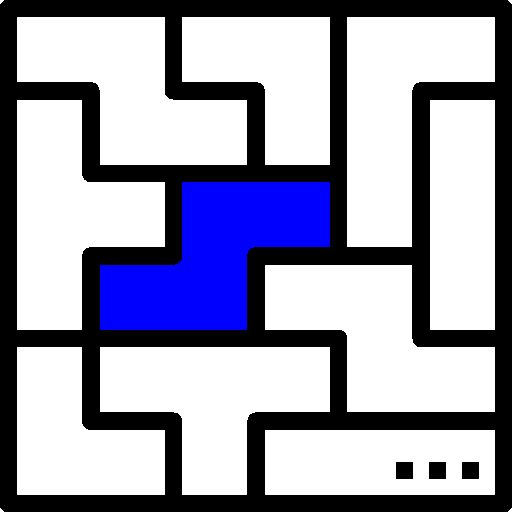
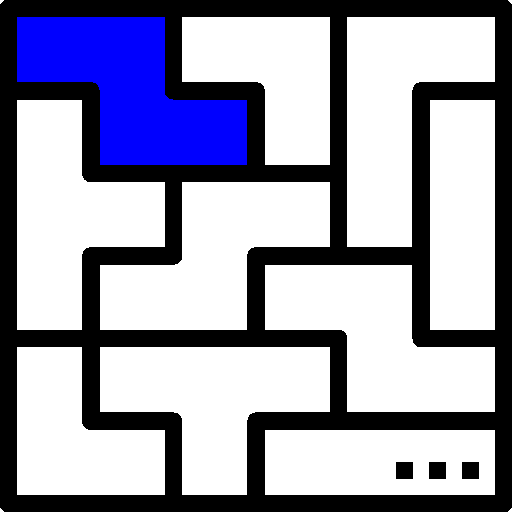
feat: implementa classe Main para execução

Changed region(s): [[0.0312, 0.0312, 0.6562, 0.6562]]

diff --git a/src/Main.java b/src/Main.java
@@ -1,0 +1,64 @@
+import algoritmo.FloodFill;
+import java.io.IOException; // Necessário para tratar erros de leitura de arquivo
+
+/**
+ * Classe principal que executa o programa Flood Fill de forma não-interativa.
+ * Em uma única execução, o programa irá gerar DOIS arquivos de saída:
+ * 1. O resultado do preenchimento com Pilha.
+ * 2. O resultado do preenchimento com Fila.
+ * As configurações são definidas diretamente no código.
+ */
+public class Main {
+    public static void main(String[] args) {
+
+        // ==========================================================
+        // CONFIGURAÇÕES DO ALGORITMO
+        // Altere os valores abaixo para testar diferentes casos
+        // ==========================================================
+
+        // 1. Especifique o caminho da imagem PNG.
+        String caminhoDaImagem = "src/img/maze.png";
+
+        // 2. Defina as coordenadas (X, Y) do ponto inicial para o preenchimento.
+        int pontoInicialX = 20;
+        int pontoInicialY = 20;
+
+        // 3. Escolha as cores de preenchimento para cada algoritmo.
+        // Use as constantes definidas em FloodFill.java.
+        int corParaPilhaRGB = FloodFill.COR_VERMELHA_RGB;
+        int corParaFilaRGB = FloodFill.COR_AZUL_RGB;
+
+        // ==========================================================
+
+        try {
+            System.out.println("============================================");
+            System.out.println("         ALGORITMO FLOOD FILL");
+            System.out.println("     Executando Pilha e Fila em sequência");
+            System.out.println("============================================");
+
+            // --- EXECUÇÃO COM PILHA ---
+            System.out.println("\n[1 de 2] Iniciando execução com PILHA...");
+            FloodFill floodFillPilha = new FloodFill(caminhoDaImagem);
+            floodFillPilha.executarComPilha(pontoInicialX, pontoInicialY, corParaPilhaRGB);
+            System.out.println("Execução com Pilha concluída.");
+
+            // --- EXECUÇÃO COM FILA ---
+            System.out.println("\n[2 de 2] Iniciando execução com FILA...");
+            FloodFill floodFillFila = new FloodFill(caminhoDaImagem);
+            floodFillFila.executarComFila(pontoInicialX, pontoInicialY, corParaFilaRGB);
+            System.out.println("Execução com Fila concluída.");
+
+            System.out.println("\n✔ Processamento finalizado!");
+            System.out.println("Verifique a pasta 'output' para os arquivos:");
+            System.out.println("- resultado_pilha.png (Cor: Vermelho)");
+            System.out.println("- resultado_fila.png (Cor: Azul)");
+
+        } catch (IOException e) {
+            System.err.println(
+                    "ERRO FATAL: Não foi possível ler o arquivo de imagem. Verifique o caminho: " + e.getMessage());
+        } catch (Exception e) {
+            System.err.println("Ocorreu um erro inesperado durante a execução: " + e.getMessage());
+            e.printStackTrace();
+        }
+    }
+}
